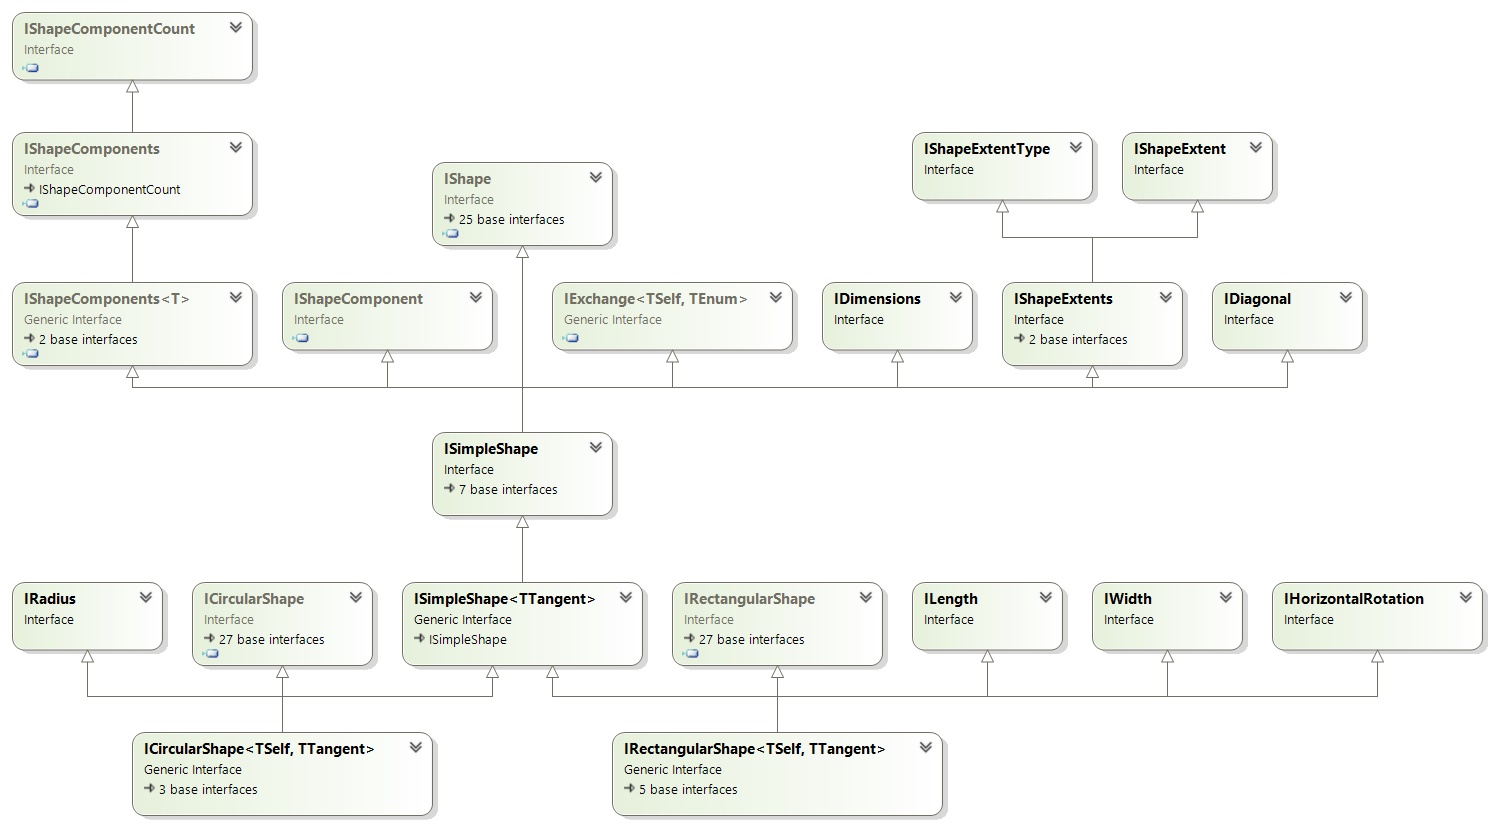
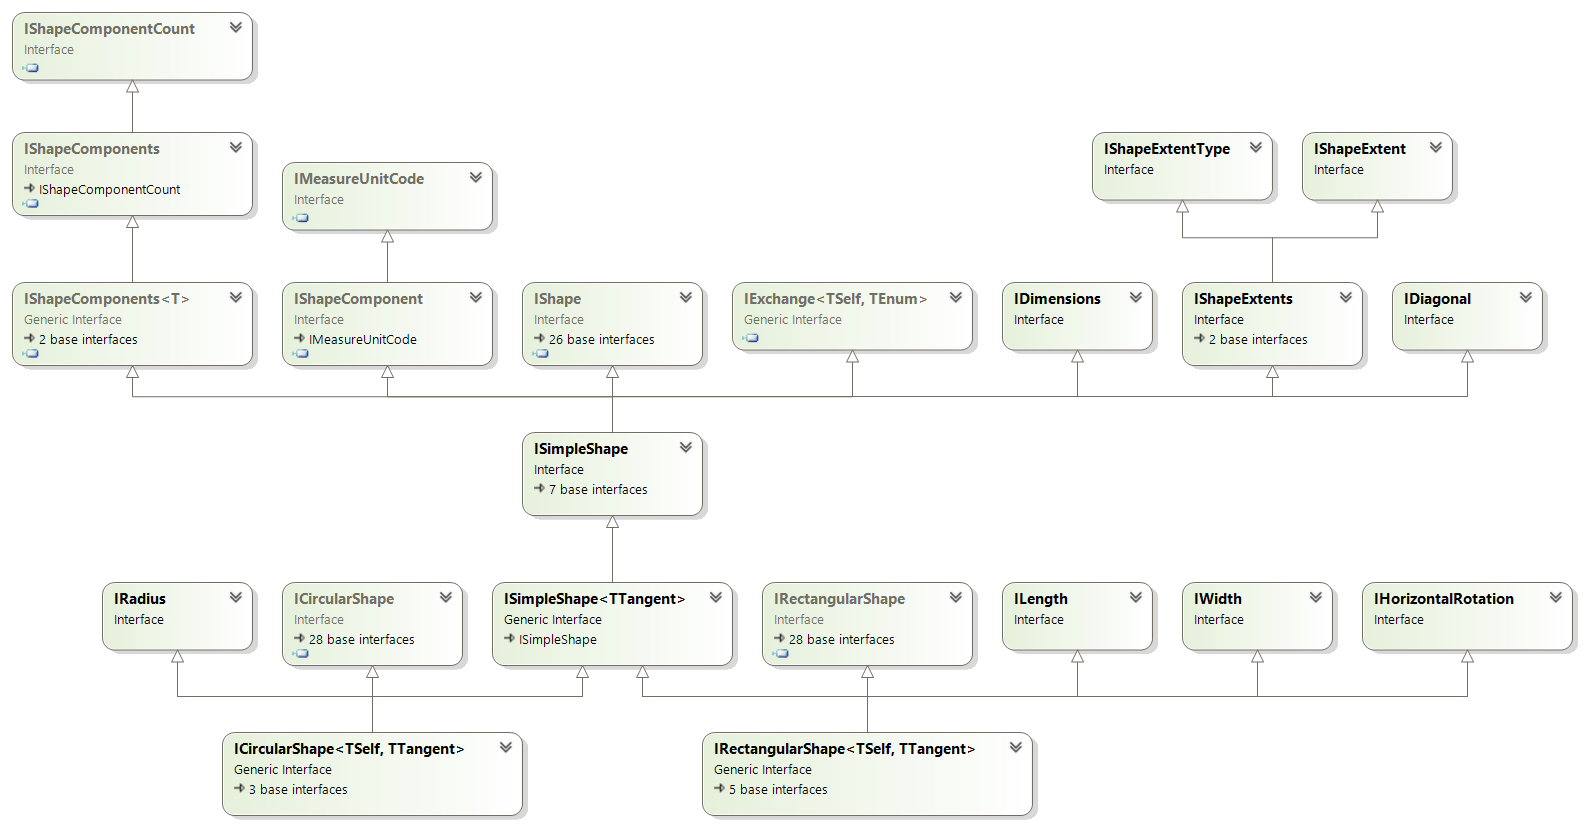
IEqualityComparer<IShapeComponent>.Equals( method implementations refactored

diff --git a/_AbstractTypes/SimpleShapes/Types/Implementations/SimpleShape.cs b/_AbstractTypes/SimpleShapes/Types/Implementations/SimpleShape.cs
@@ -1,4 +1,5 @@
-namespace CsabaDu.FooVaria.AbstractTypes.SimpleShapes.Types.Implementations;
+
+namespace CsabaDu.FooVaria.AbstractTypes.SimpleShapes.Types.Implementations;
 
 public abstract class SimpleShape : Shape, ISimpleShape
 {
@@ -136,6 +137,33 @@ public abstract class SimpleShape : Shape, ISimpleShape
     public abstract IBulkSpreadFactory GetBulkSpreadFactory();
     public abstract ITangentShapeFactory GetTangentShapeFactory();
     #endregion
+
+    public bool Equals(IShapeComponent? x, IShapeComponent? y)
+    {
+        if (x?.GetMeasureUnitCode() != y?.GetMeasureUnitCode()) return false;
+
+        return y is null 
+            || x?.GetBaseShapeComponents().SequenceEqual(y.GetBaseShapeComponents()) == true;
+    }
+
+    public int GetHashCode([DisallowNull] IShapeComponent obj)
+    {
+        throw new NotImplementedException();
+    }
+
+    public IEnumerable<IShapeComponent> GetBaseShapeComponents()
+    {
+        IEnumerable<IExtent> shapeExtents = GetShapeExtents();
+
+        return shapeExtents.Select(getShapeExtentFirstBaseShapeComponent).OrderBy(x => x);
+
+        #region Local methods
+        IShapeComponent getShapeExtentFirstBaseShapeComponent(IExtent shapeExtent)
+        {
+            return shapeExtent.GetBaseShapeComponents().First();
+        }
+        #endregion
+    }
 
     public IExtent GetDiagonal()
     {

diff --git a/Measures/Types/Implementations/Extent.cs b/Measures/Types/Implementations/Extent.cs
@@ -1,4 +1,6 @@
-namespace CsabaDu.FooVaria.Measures.Types.Implementations;
+using CsabaDu.FooVaria.BaseTypes.BaseQuantifiables.Types.Implementations;
+
+namespace CsabaDu.FooVaria.Measures.Types.Implementations;
 
 internal sealed class Extent(IMeasureFactory factory, ExtentUnit extentUnit, double quantity)
     : Measure<IExtent, double, ExtentUnit>(factory, extentUnit, quantity), IExtent
@@ -24,9 +26,29 @@ internal sealed class Extent(IMeasureFactory factory, ExtentUnit extentUnit, dou
         return ConvertMeasure().Equals(other);
     }
 
+    public bool Equals(IShapeComponent? x, IShapeComponent? y)
+    {
+        //if (x is not IExtent || y is not IExtent) return false;
+
+        return x is not IExtent
+            && y is not IExtent
+            || y is null
+            || (x as BaseQuantifiable)?.Equals(y) == true;
+    }
+
     public IDistance? ExchangeTo(DistanceUnit distanceUnit)
     {
         return ConvertMeasure().ExchangeTo(distanceUnit);
+    }
+
+    public IEnumerable<IShapeComponent> GetBaseShapeComponents()
+    {
+        yield return this;
+    }
+
+    public int GetHashCode([DisallowNull] IShapeComponent shapeComponent)
+    {
+        return (shapeComponent as BaseQuantifiable)!.GetHashCode();
     }
 
     public decimal ProportionalTo(IDistance? other)

diff --git a/_BaseTypes/Shapes/Types/Implementations/Shape.cs b/_BaseTypes/Shapes/Types/Implementations/Shape.cs
@@ -37,7 +37,7 @@ public abstract class Shape(IRootObject rootObject, string paramName) : Spread(r
     public virtual bool Equals(IShape? other)
     {
         return base.Equals(other)
-            && GetShapeComponents().SequenceEqual(other.GetShapeComponents());
+            && GetBaseShape().GetShapeComponents().SequenceEqual(other.GetBaseShape().GetShapeComponents());
     }
     #endregion
 
@@ -51,8 +51,12 @@ public abstract class Shape(IRootObject rootObject, string paramName) : Spread(r
 
     public bool Equals(IShape? x, IShape? y)
     {
-        return x is null == y is null
-            && x?.GetBaseShape().Equals(y?.GetBaseShape()) != false;
+        //if (x is null != y is null) return false;
+
+        return x is not null
+            && y is not null
+            || y is null
+            || x?.GetBaseShape().Equals(y.GetBaseShape()) == true;
     }
 
     public int GetHashCode([DisallowNull] IShape shape)

diff --git a/_BaseTypes/Quantifiables/Behaviors/IShapeComponent.cs b/_BaseTypes/Quantifiables/Behaviors/IShapeComponent.cs
@@ -1,3 +1,6 @@
 namespace CsabaDu.FooVaria.BaseTypes.Quantifiables.Behaviors;
 
-public interface IShapeComponent/* : IMeasureUnitCode, IDefaultQuantity*/;
+public interface IShapeComponent : IMeasureUnitCode, IEqualityComparer<IShapeComponent>
+{
+    IEnumerable<IShapeComponent> GetBaseShapeComponents();
+}
